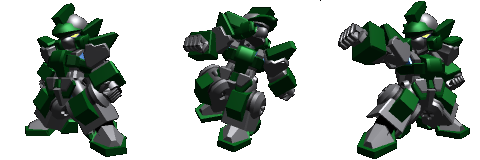
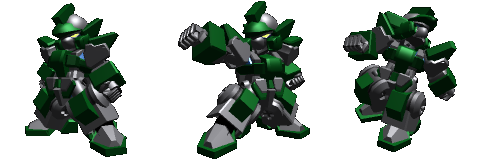
シールドブレイク後のガーディアス画像を差し替えた

Changed region(s): [[0.6875, 0.0, 1.0, 1.0], [0.3438, 0.0, 0.6562, 1.0]]

diff --git a/publicForTest/javascripts/shieldBreakTest/noShieldBreakEnemyTest.js b/publicForTest/javascripts/shieldBreakTest/noShieldBreakEnemyTest.js
@@ -1,0 +1,75 @@
+enchant();
+window.onload = doTest;
+
+function doTest(){
+    var assert = chai.assert;
+    var testDataInst = testData();
+    var statusArray = {
+        'test005@gmail.com' : testDataInst.getPlayerData('test005@gmail.com').status,
+        'test001@gmail.com' : testDataInst.getPlayerData('test001@gmail.com').status
+    };
+    var testGame = gameBase();
+    var testScene;
+    var AttackAnime;
+
+    testGame.start();
+    testGame.onload = initAnime;
+
+    function initAnime(){
+        testScene = battleSceneBase({
+            userId : 'test001@gmail.com',
+            statusArray : statusArray
+        });
+        testScene.refreshMertor({
+            'test001@gmail.com' : {
+                hp : 3200,
+                battery : 5,
+                active : 5000
+            },
+            'test005@gmail.com' : {
+                hp : 2100,
+                battery : 5,
+                active : 3000
+            }
+        });
+        testGame.pushScene(testScene);
+        playAnime();
+    }
+
+    function playAnime(){
+        var attackAnimeParam = {
+            attackUserId : 'test001@gmail.com',
+            hit : 1,
+            damage : 800,
+            atackBattery : 3,
+            defenthBattery : 2,
+            statusArray : {
+                'test001@gmail.com' : {
+                    hp : 3200,
+                    battery : 2,
+                    active : 0,
+                    skillPoint : 1,
+                    specialPoint: 0
+                },
+                'test005@gmail.com' : {
+                    hp : 2100,
+                    battery : 3,
+                    active : 3000,
+                    skillPoint : 1,
+                    specialPoint: 200
+                }
+            }
+        }
+        AttackAnime = attackAnime({
+            battleScene : testScene
+        });
+        AttackAnime.play(attackAnimeParam,assertAnimeEnd);
+    }
+
+    function assertAnimeEnd(){
+        var pict = testGame.currentScene.charaSpriteArray['test005@gmail.com'].image;
+        assert.deepEqual(pict,testGame.assets[testGame.PICT_PREFIX+'Guardias.png'],
+            'ガーディアスの画像が変化しない');
+        finishTest();
+    }
+}

diff --git a/publicForTest/javascripts/shieldBreakTest/noShieldBreakPlayerTest.js b/publicForTest/javascripts/shieldBreakTest/noShieldBreakPlayerTest.js
@@ -1,0 +1,75 @@
+enchant();
+window.onload = doTest;
+
+function doTest(){
+    var assert = chai.assert;
+    var testDataInst = testData();
+    var statusArray = {
+        'test005@gmail.com' : testDataInst.getPlayerData('test005@gmail.com').status,
+        'test001@gmail.com' : testDataInst.getPlayerData('test001@gmail.com').status
+    };
+    var testGame = gameBase();
+    var testScene;
+    var AttackAnime;
+
+    testGame.start();
+    testGame.onload = initAnime;
+
+    function initAnime(){
+        testScene = battleSceneBase({
+            userId : 'test005@gmail.com',
+            statusArray : statusArray
+        });
+        testScene.refreshMertor({
+            'test001@gmail.com' : {
+                hp : 3200,
+                battery : 5,
+                active : 5000
+            },
+            'test005@gmail.com' : {
+                hp : 2100,
+                battery : 5,
+                active : 3000
+            }
+        });
+        testGame.pushScene(testScene);
+        playAnime();
+    }
+
+    function playAnime(){
+        var attackAnimeParam = {
+            attackUserId : 'test001@gmail.com',
+            hit : 1,
+            damage : 800,
+            atackBattery : 3,
+            defenthBattery : 2,
+            statusArray : {
+                'test001@gmail.com' : {
+                    hp : 3200,
+                    battery : 2,
+                    active : 0,
+                    skillPoint : 1,
+                    specialPoint: 0
+                },
+                'test005@gmail.com' : {
+                    hp : 2100,
+                    battery : 3,
+                    active : 3000,
+                    skillPoint : 1,
+                    specialPoint: 200
+                }
+            }
+        }
+        AttackAnime = attackAnime({
+            battleScene : testScene
+        });
+        AttackAnime.play(attackAnimeParam,assertAnimeEnd);
+    }
+
+    function assertAnimeEnd(){
+        var pict = testGame.currentScene.charaSpriteArray['test005@gmail.com'].image;
+        assert.deepEqual(pict,testGame.assets[testGame.PICT_PREFIX+'Guardias.png'],
+            'ガーディアスの画像が変化しない');
+        finishTest();
+    }
+}
